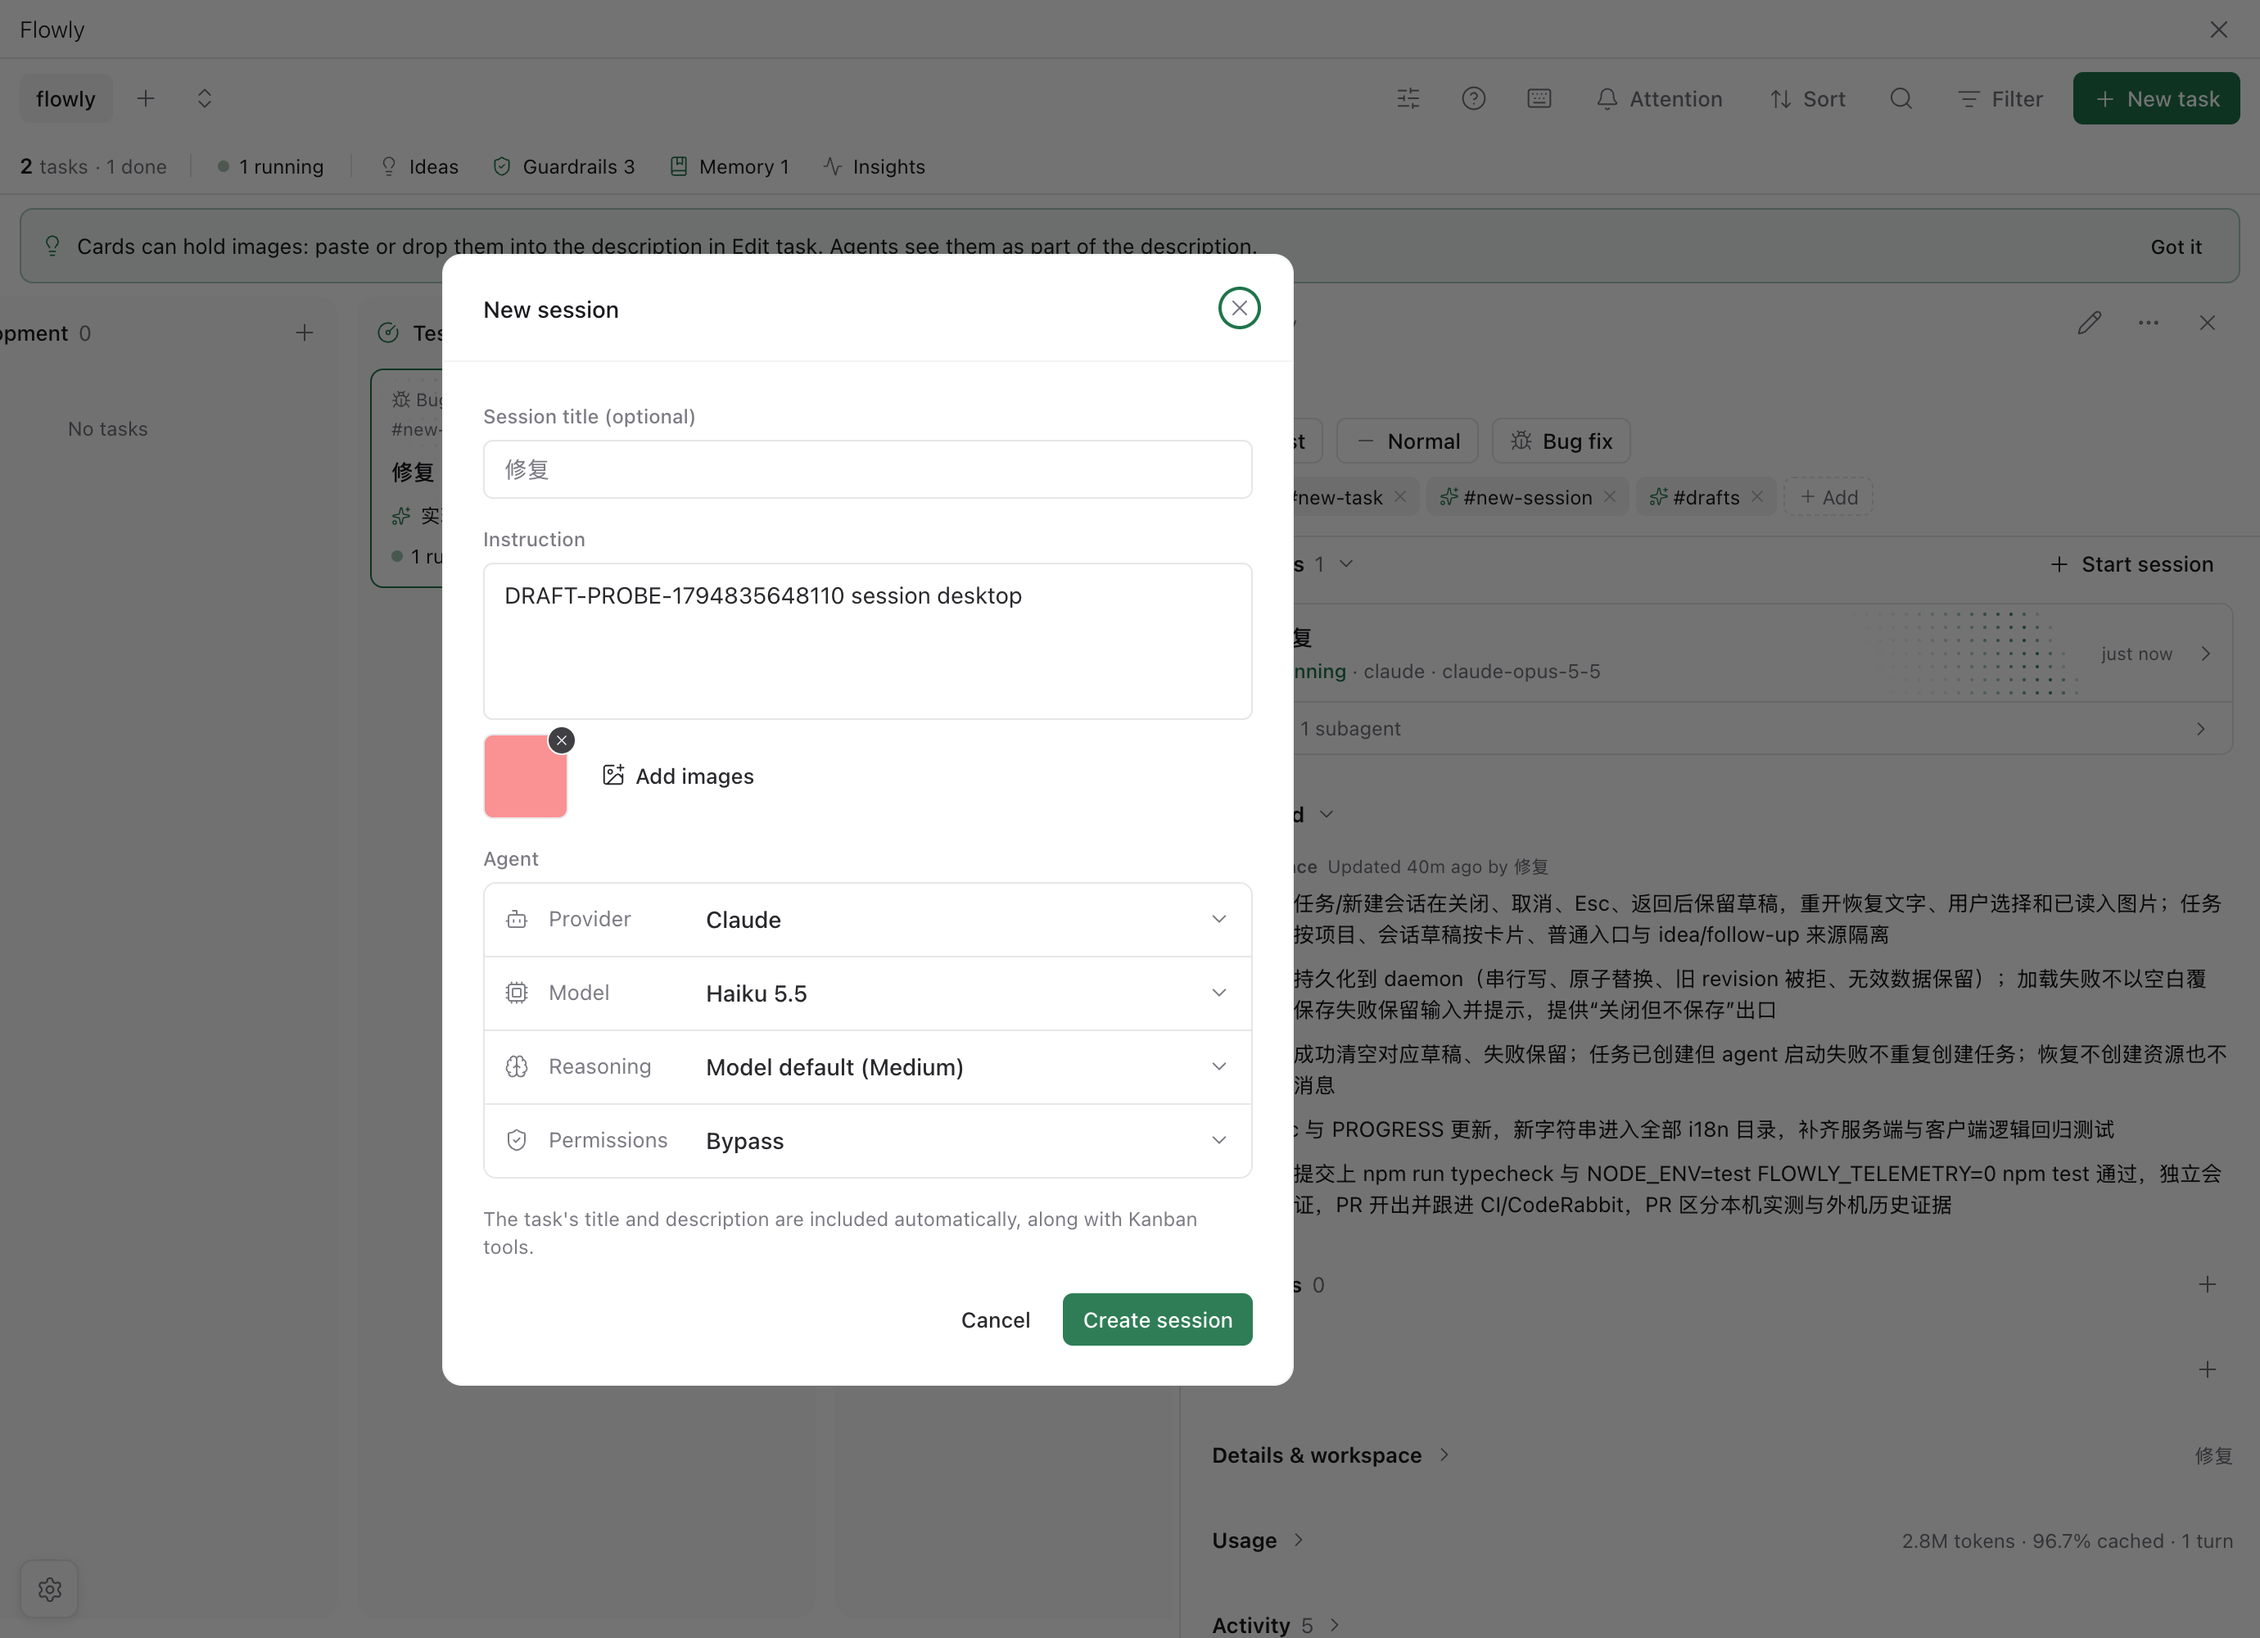
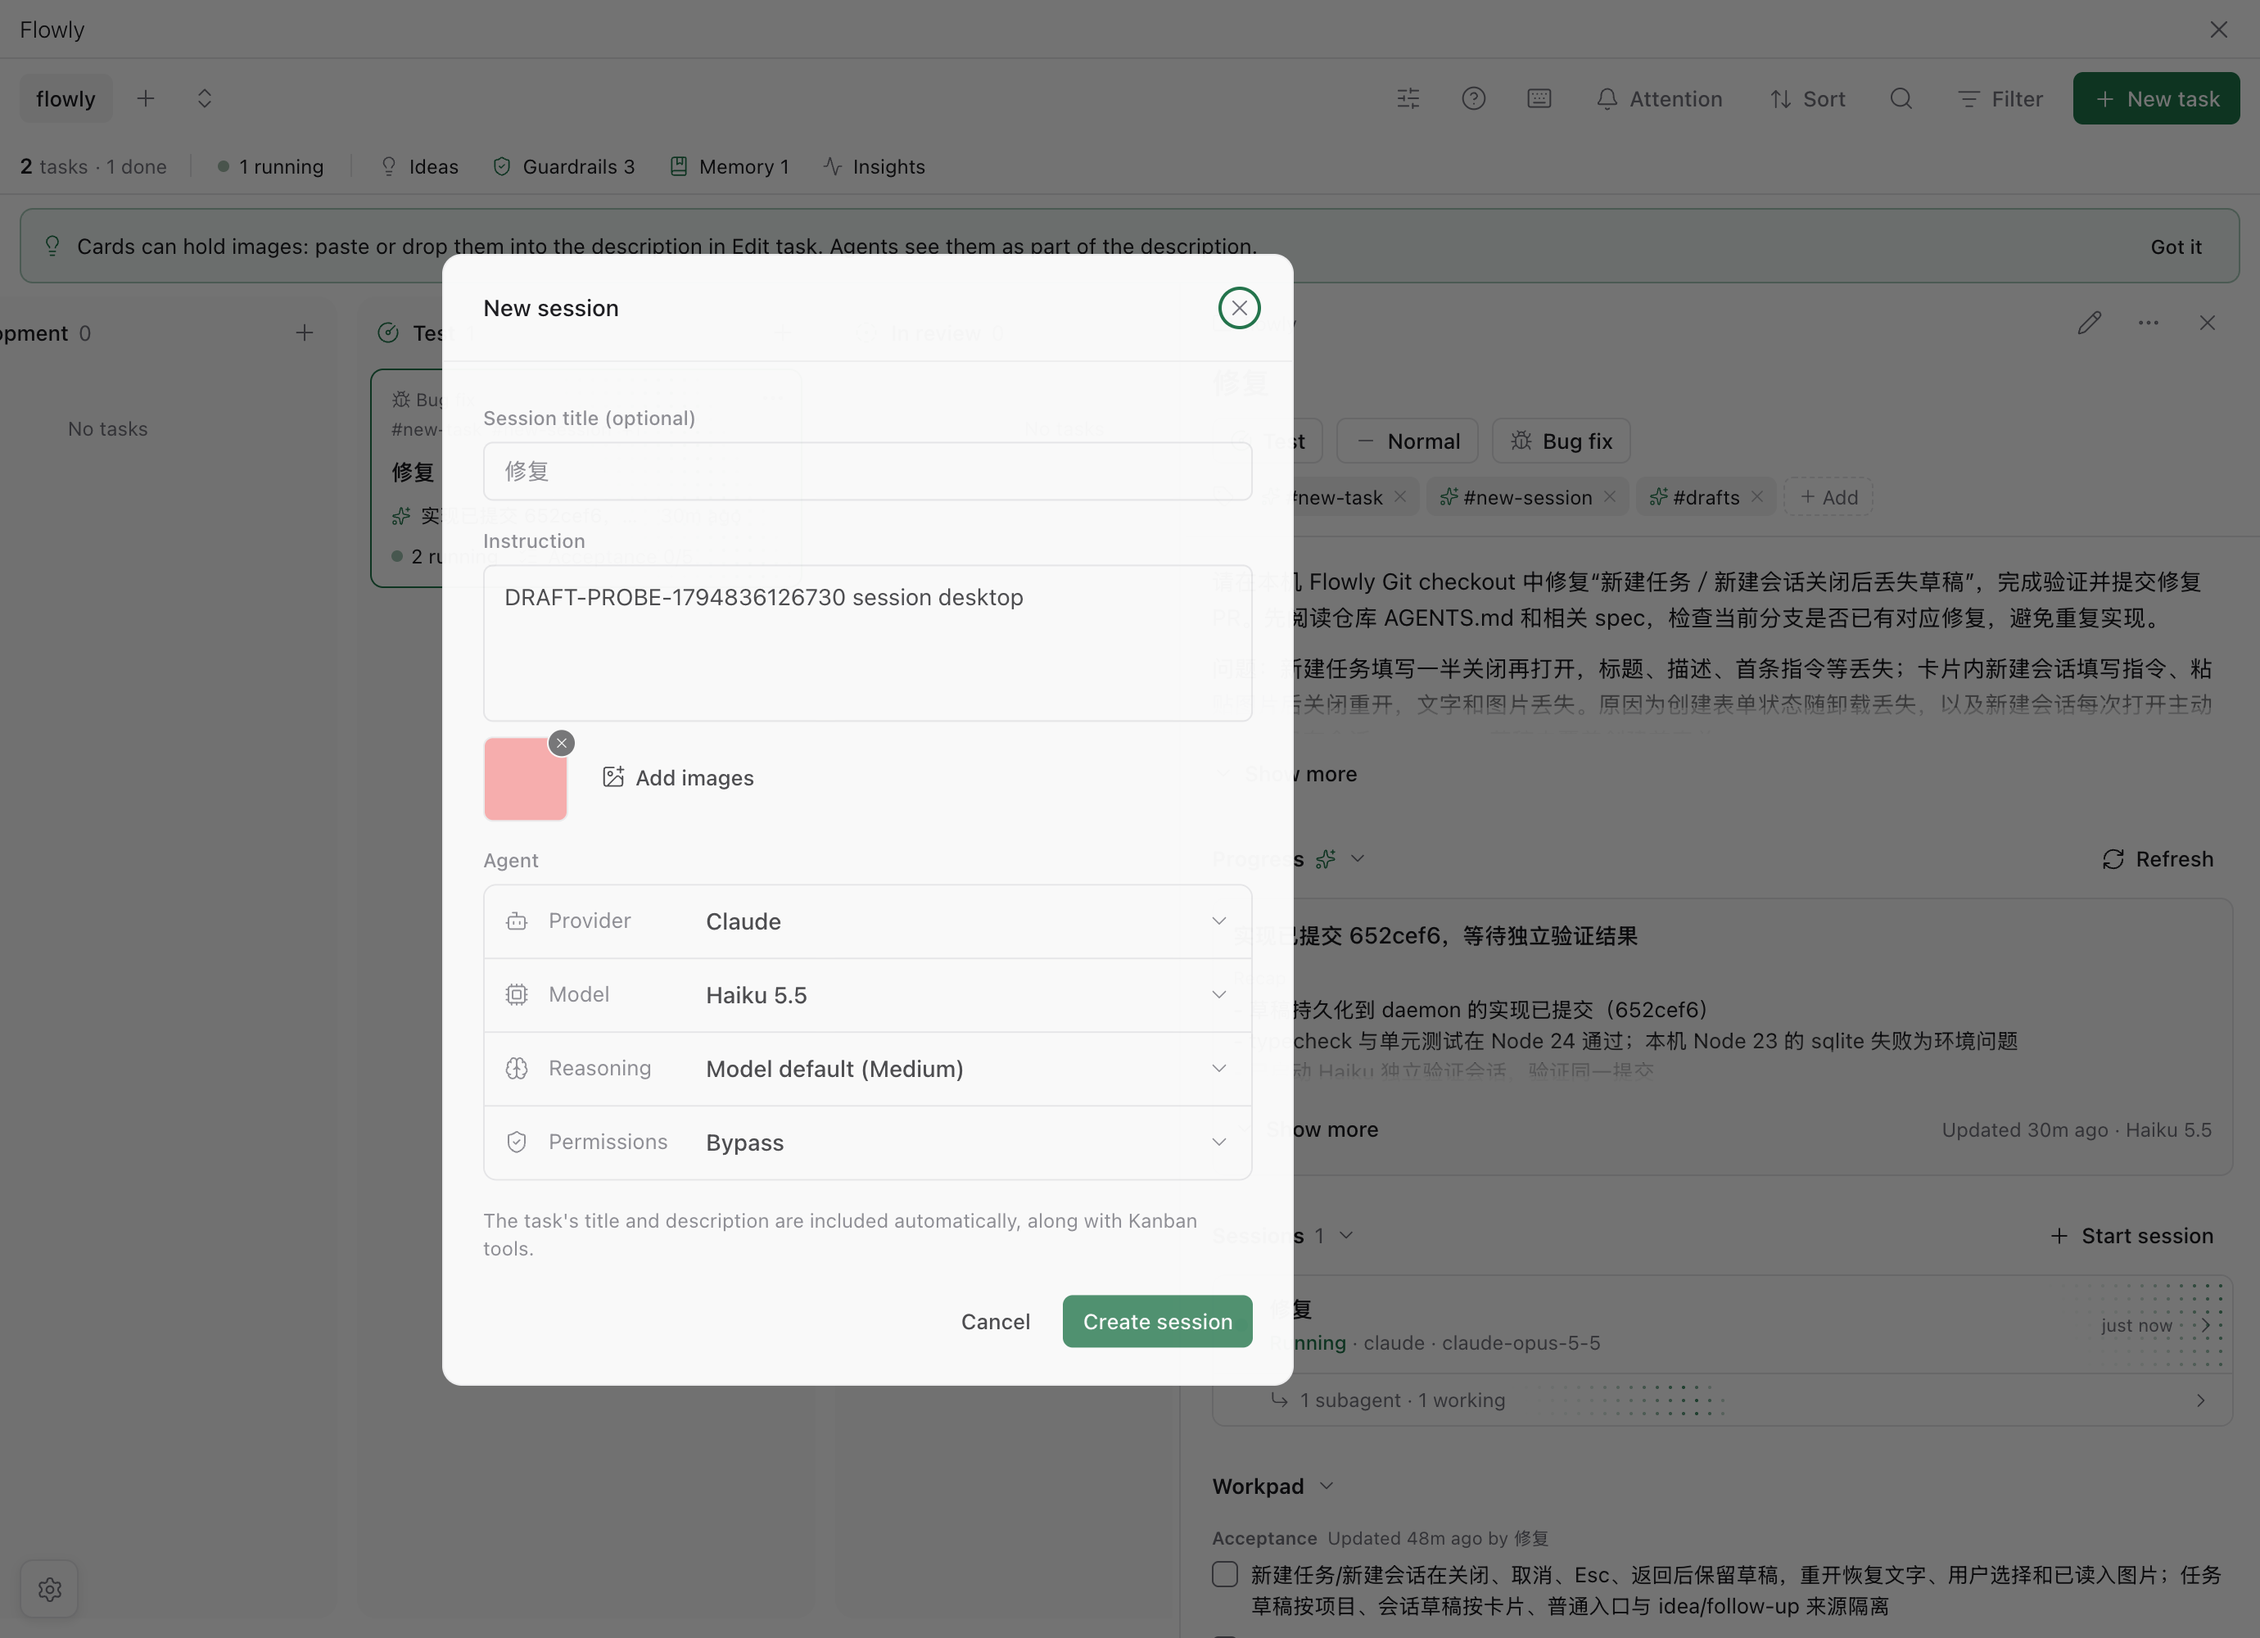
docs(verification): form drafts re-run on the review fixes

diff --git a/docs/verification/form-drafts-2026-11-16/independent.md b/docs/verification/form-drafts-2026-11-16/independent.md
@@ -76,3 +76,46 @@ Two more gaps, not in the spec list:
 - Full suite: Node 23 exit 1 (1 failure, pre-existing on `origin/main`); Node 24 exit 0 on rerun (1 run earlier failed on a timeout flake).
 - Focused suites: 5/5 files, 41/41 tests passed (Node 24).
 - Part B: 0 run, all UNRUN.
+
+## Re-run on ea6e7f7
+
+Commit under test: `ea6e7f7` (branch `fix/form-drafts`), after `847afb3` (8 review fixes). Worktree `/tmp/flowly-verify-ea6e7f7` created, `npm ci` exit 0, removed afterwards. Part B skipped as instructed (implementer's own evidence is in `ui.md`).
+
+| Check | Command | Exit | Result |
+|---|---|---|---|
+| Typecheck | `npm run typecheck` | 0 | clean |
+| Full suite, Node 23 | `NODE_ENV=test FLOWLY_TELEMETRY=0 npm test` | 1 | files: 1 failed, 167 passed, 1 skipped (169). tests: 1 failed, 1519 passed, 6 skipped (1526). Failure: the same `server/sqlite-store.test.ts` transaction test as before (pre-existing on `origin/main`) |
+| Full suite, Node 24 (run 1) | same, via `npx -y -p node@24` | 1 | tests: 1 failed, 1519 passed, 6 skipped. Failure: `server/tool-server.test.ts` CLI flow, `Test timed out in 30000ms` (same flake as before) |
+| `server/tool-server.test.ts`, Node 24 | focused rerun | 0 | 12/12 passed |
+| Full suite, Node 24 (run 2) | same | 0 | files: 168 passed, 1 skipped (169). tests: 1520 passed, 6 skipped (1526) |
+| Focused suites, Node 24 | `server/form-drafts.test.ts client/form-draft-saver.test.ts client/task-draft.test.ts client/catalog.test.ts server/guardrails.test.ts` | 0 | 5/5 files, 43/43 tests passed (was 41; the 2 new tests are below) |
+
+Node 23 sqlite failure is the same as before; the Node 23 run was not repeated because the Node 24 result is the CI-equivalent one.
+
+### Review of 847afb3: is each fix real, and tested?
+
+| Fix | Real? | Tested? |
+|---|---|---|
+| Saver bound to its own draft key (`client/form-draft.tsx`, `key!` instead of `keyRef`) | Yes: the closure captures the key the saver was built for. | No. Nothing covers a pending save across a key change. |
+| `retrySave` conflict path: read errors are caught, conflict kept, Retry stays | Yes. | No. |
+| `persist` before the first create (`forms.tsx:629`) | Yes: `operationId` is saved before `paseo`/create runs, and a failed persist returns before create. The `busy` flag is reset in the existing `finally`. | No. There is no test of the order or of a failed persist. |
+| Close during save blocks create; running create defers close (`closing`/`busy` checks in `forms.tsx` and `session-create.tsx`) | Yes, as far as read: `save()` returns early when `closing` or `busy` is set, and `requestClose` no longer closes while `busy`. | No. |
+| Prepared session attempts per draft key (`session-create.tsx`, `Map` keyed by `key`) | Yes: a card's attempt and an idea's attempt no longer overwrite each other. | No. |
+| Unknown external providers dropped on restore (`task-draft.ts`, `hasOwnProperty(providerInfo)`) | Yes. `toString` and retired providers are rejected. | Yes: `client/task-draft.test.ts` new test (`github` kept; `retired-service` and `toString` dropped). |
+| fsync before rename; temp file removed on failure (`server/form-drafts.ts`) | Yes in the code. | Partly: `server/form-drafts.test.ts` new test checks no `.tmp` file is left and the previous draft survives a failed write (chmod 0500 on the directory). It does not check fsync. The test uses chmod, so it does nothing as root. |
+| Failed old-image cleanup after commit no longer deletes new images; error logged with `logFailure` | Yes: the cleanup is moved after the commit and wrapped in `.catch`. | Not directly. The new test does not cover a cleanup failure. |
+
+Item 5 duplicate-card claim: **confirmed**, with a caveat.
+
+- `server/service.ts:474-478`: `createCard` is serialized and returns an existing card with the same `operationId` before any workspace is created. `store.mutate` at line ~578 checks again.
+- `server/service.test.ts:84`: calls `createTask` twice with the same input, expects the same card id and `x.create` called once. That is the only test of this path, and it sits inside a test named for native-root sourcing. It covers a retry after success, not a retry after a failure partway through.
+- `client/task-draft.test.ts`: round-trips `operationId` through restore. It does not prove the form sends it again.
+
+## Still untested
+
+- Retry after a lost response or crash mid-create, i.e. a workspace created but no card written. The Paseo-side `idempotencyKey` (`service.ts:555`) is the only protection there, and no test covers it.
+- The UI sequence: persist → create → clear, and a failed persist keeping the form open. Client UI logic has no tests in these suites.
+- Clear after a successful create fails: the draft stays and the form can be reopened with the old `operationId`. The result is an idempotent re-create, which is probably safe, but not tested.
+- Key binding across a key change; retry after a conflict-read error; the close-vs-create race; per-key prepared attempts; the image-cleanup-failure path.
+- Spec §6 items 1 (Esc/Cancel reopen, reload), 2 (client key use), 4 (`DraftNotice` buttons) are still as in the first report.
+- Part B (live UI) is not run by me in either pass; see `ui.md` for the implementer's probe.

diff --git a/docs/verification/form-drafts-2026-11-16/ui.md b/docs/verification/form-drafts-2026-11-16/ui.md
@@ -27,3 +27,17 @@ Desktop screenshots are in `ui/`. Compact has no screenshots, because shot-lib's
 - Create-clears-draft in the UI, and the save-failure and load-failure notices.
 - Paste events; the image was attached through the file chooser only.
 - Phones, native client or daemon restart, force-quit.
+
+## Re-run after the review fixes (`847afb3`, plugin reloaded)
+
+Three runs. No assertion failed in any of them. Every failure was a navigation or page-load timeout before any form step: shot-lib's 8 s project-chooser click, or `app.paseo.sh` `page.goto` `ERR_TIMED_OUT`. Logs: `ui/run-847afb3-{1,2,3}.log`.
+
+| Run | Passed | Failed (all navigation) |
+| --- | --- | --- |
+| 1 | 12 | compact New session round |
+| 2 | 12 | desktop New task round |
+| 3 | 4 | desktop New session round, both compact rounds |
+
+Taken together, all 16 checks passed at `847afb3`. No single run passed all 16, so the clean single run above is still the one at `089d115`. `ui/results.json` holds the last run's result.
+
+After the runs, a read-only look at the daemon's `form-drafts.json` shows two entries left: `task:<flowly project>:plain` and `session:<this card>:plain`. Both have empty text and no images. No probe text or images are left.
